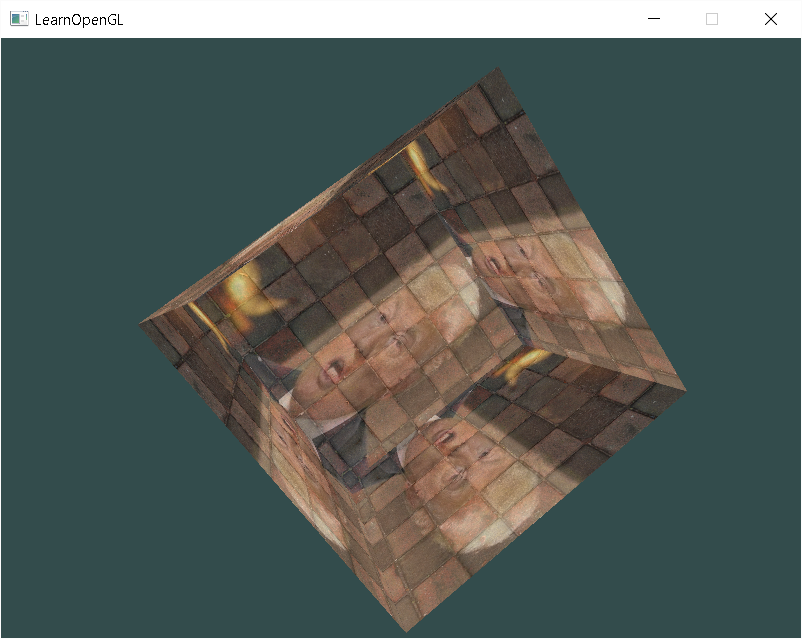
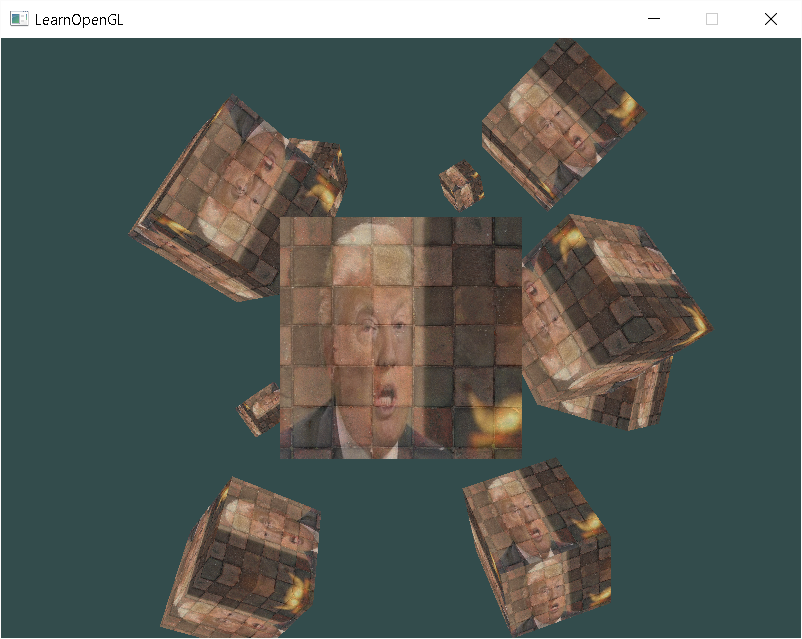
Now 10 trump cubes approach to camera and then moves away corresponding to cos

diff --git a/OpenGlFirst/Test.cpp b/OpenGlFirst/Test.cpp
@@ -28,6 +28,7 @@ const GLuint WIDTH = 800, HEIGHT = 600;
 // The MAIN function, from here we start the application and run the game loop
 int main()
 {
+	
     // Init GLFW
     glfwInit();
     // Set all the required options for GLFW
@@ -187,6 +188,23 @@ int main()
 	glm::mat4 projection;
 	projection = glm::perspective(45.0f, (float)WIDTH/(float)HEIGHT, 0.1f, 100.f);
 
+	// Enable depth testing
+	glEnable(GL_DEPTH_TEST);
+
+	// Draw moar cubes!
+	glm::vec3 cubePositions[] = 
+	{
+		glm::vec3( 0.0f, 0.0f, 0.0f),
+		glm::vec3( 2.0f, 5.0f, -15.0f),
+		glm::vec3(-1.5f, -2.2f, -2.5f),
+		glm::vec3(-3.8f, -2.0f, -12.3f),
+		glm::vec3( 2.4f, -0.4f, -3.5f),
+		glm::vec3(-1.7f, 3.0f, -7.5f),
+		glm::vec3( 1.3f, -2.0f, -2.5f),
+		glm::vec3( 1.5f, 2.0f, -2.5f),
+		glm::vec3( 1.5f, 0.2f, -1.5f),
+		glm::vec3(-1.3f, 1.0f, -1.5f) 
+	};
 
 	// Game loop
     while (!glfwWindowShouldClose(window))
@@ -197,11 +215,11 @@ int main()
         // Render
         // Clear the colorbuffer
         glClearColor(0.2f, 0.3f, 0.3f, 1.0f);
-        glClear(GL_COLOR_BUFFER_BIT);
+		glClear(GL_COLOR_BUFFER_BIT | GL_DEPTH_BUFFER_BIT);
 
 
-			// Rotate cube over time.
-		model = glm::rotate(model, cosf((GLfloat)glfwGetTime()) * 0.008f,
+	// Rotate cube over time.
+	model = glm::rotate(model, cosf((GLfloat)glfwGetTime()) * 0.008f,
 	glm::vec3(0.5f, 1.0f, 0.0f));
 
 
@@ -210,11 +228,8 @@ int main()
 	GLint viewLoc = glGetUniformLocation(ourShader.Program, "view");
 	GLint projLoc = glGetUniformLocation(ourShader.Program, "projection");
 	
-	glUniformMatrix4fv(modelLoc, 1, GL_FALSE, glm::value_ptr(model));
 	glUniformMatrix4fv(viewLoc, 1, GL_FALSE, glm::value_ptr(view));
 	glUniformMatrix4fv(projLoc, 1, GL_FALSE, glm::value_ptr(projection));
-
-	
 
 
         // Bind Textures using texture units
@@ -230,7 +245,18 @@ int main()
 
        // Draw container
         glBindVertexArray(VAO);
-		glDrawArrays(GL_TRIANGLES, 0, 36);
+		for (GLuint i = 0; i < 10; ++i)
+		{
+			glm::mat4 model;
+			model = glm::translate(model,
+				glm::vec3(cubePositions[i].x,
+				cubePositions[i].y,
+				cubePositions[i].z + cosf(glfwGetTime()) - 1.f));
+			GLfloat angle = 20.f * i;
+			model = glm::rotate(model, angle, glm::vec3(1.f, .3f, .5f));
+			glUniformMatrix4fv(modelLoc, 1, GL_FALSE, glm::value_ptr(model));
+			glDrawArrays(GL_TRIANGLES, 0, 36);
+		}
         glBindVertexArray(0);
 
         // Swap the screen buffers
